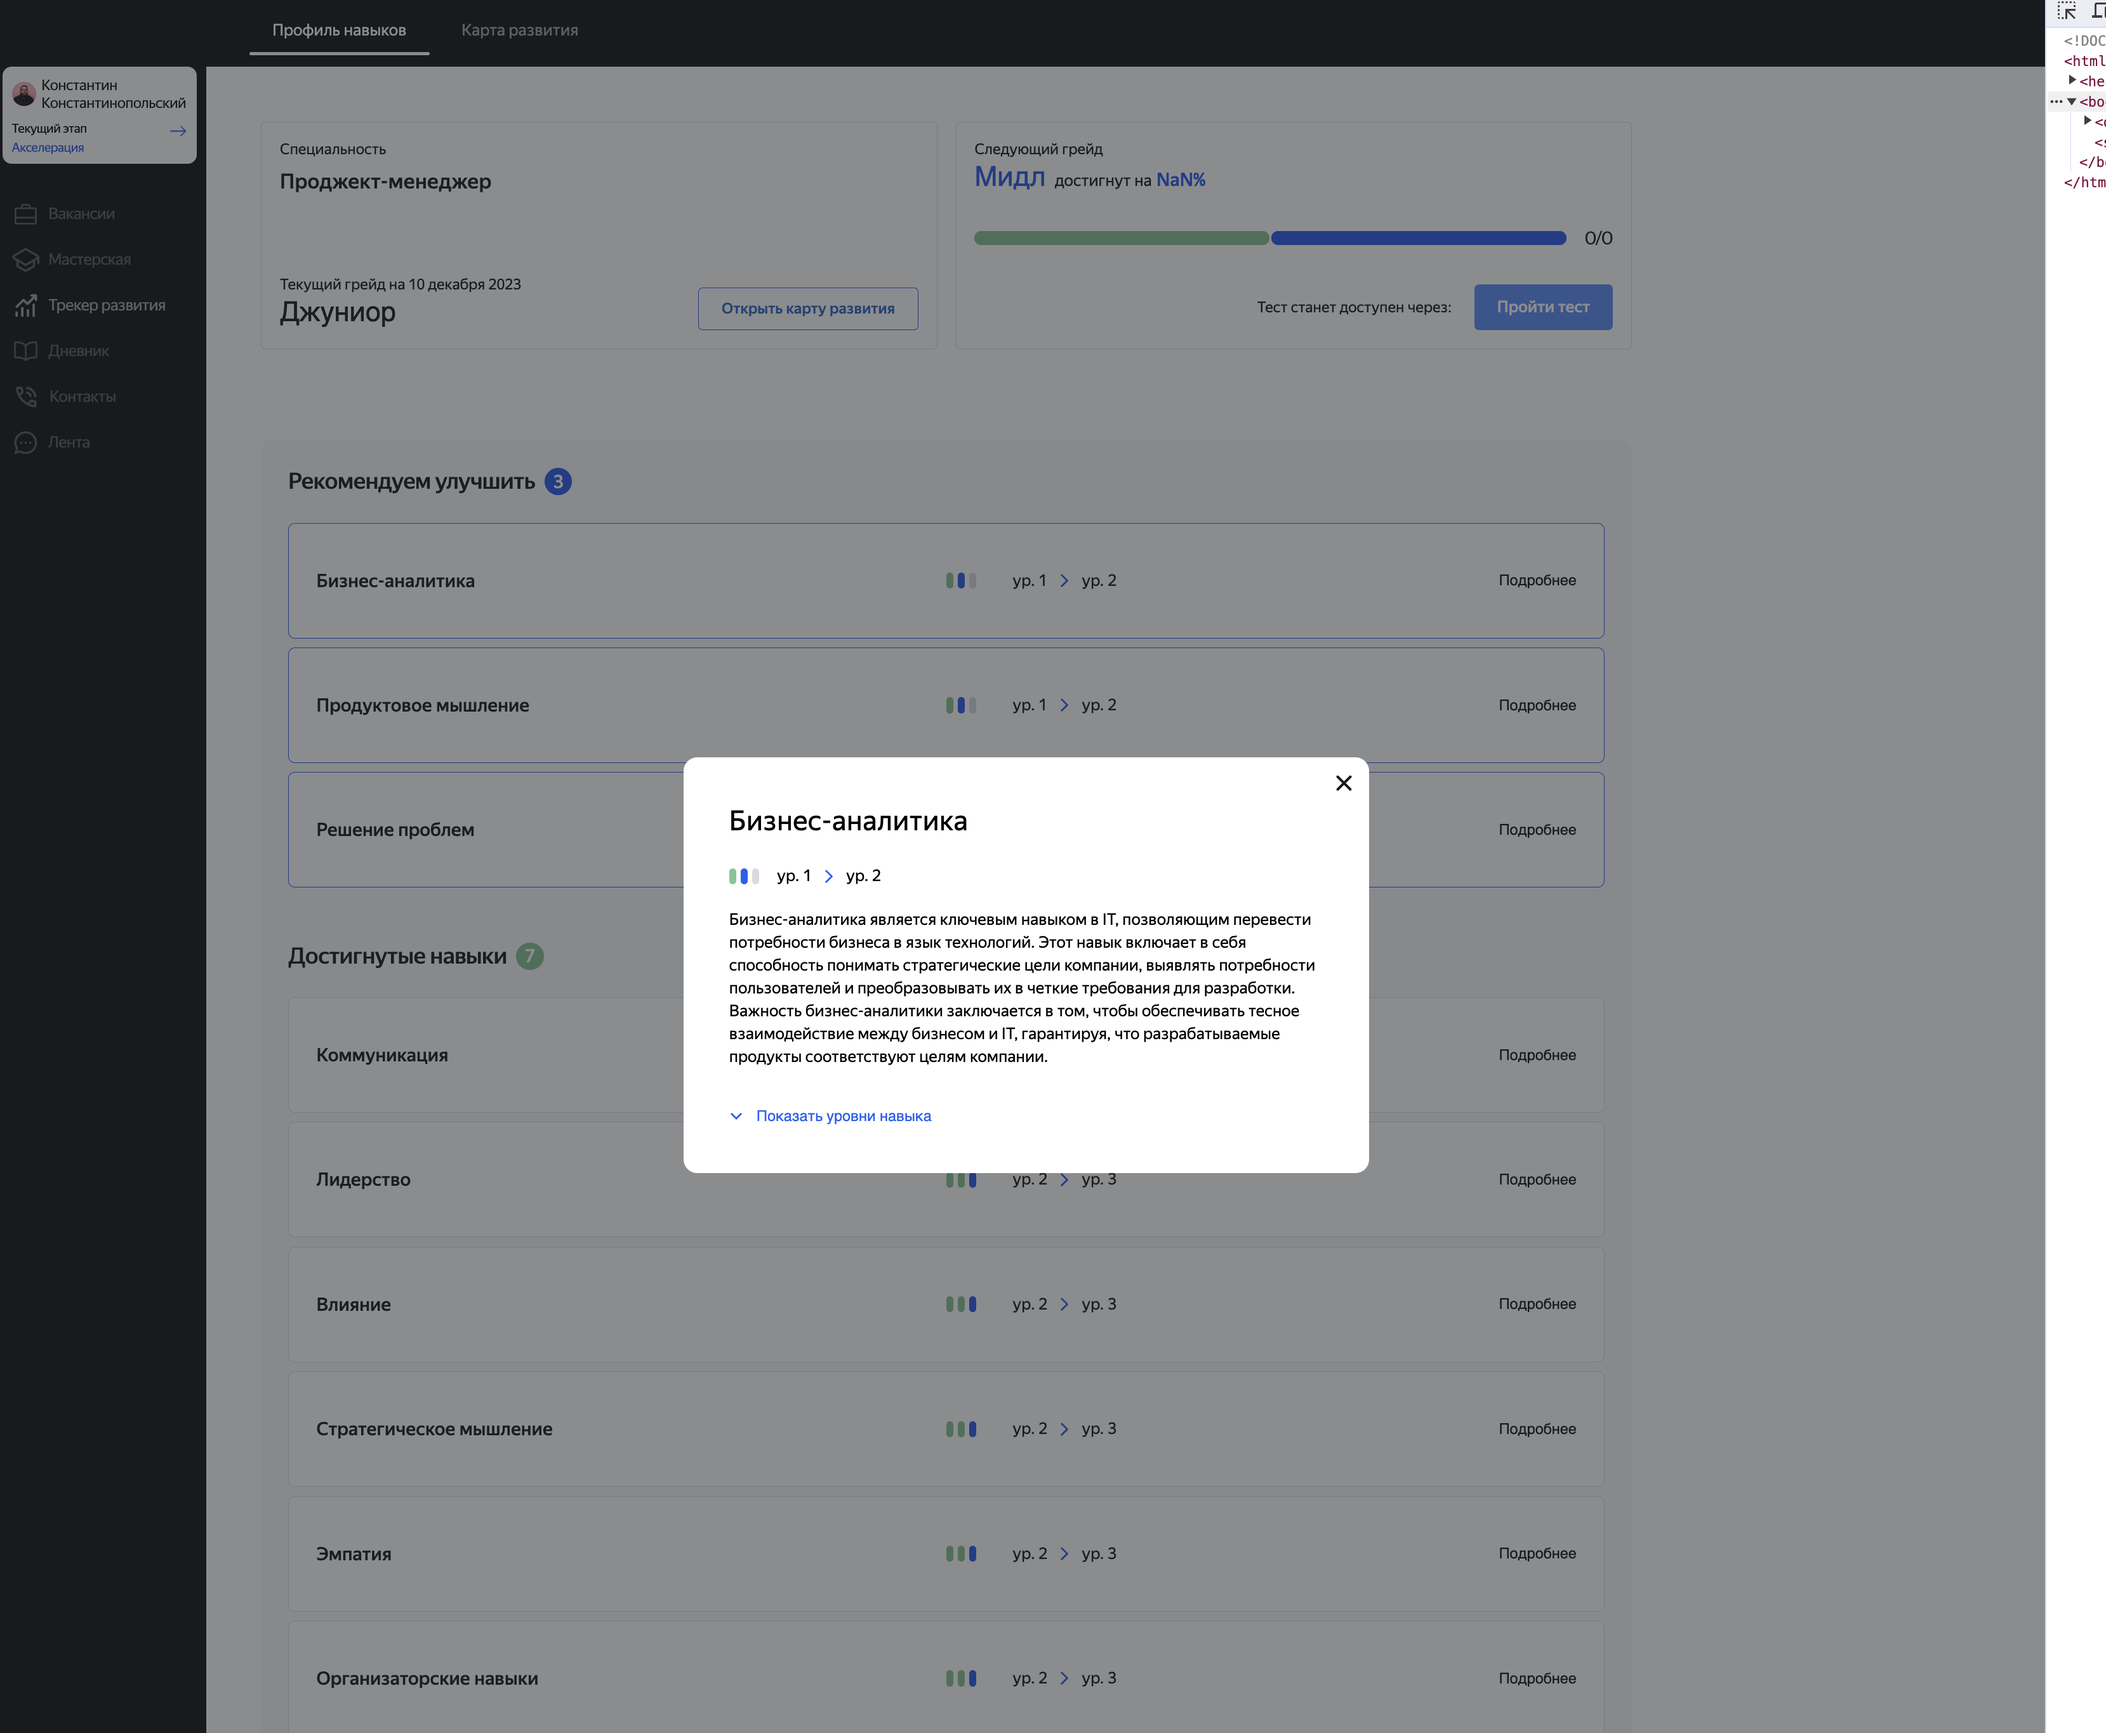
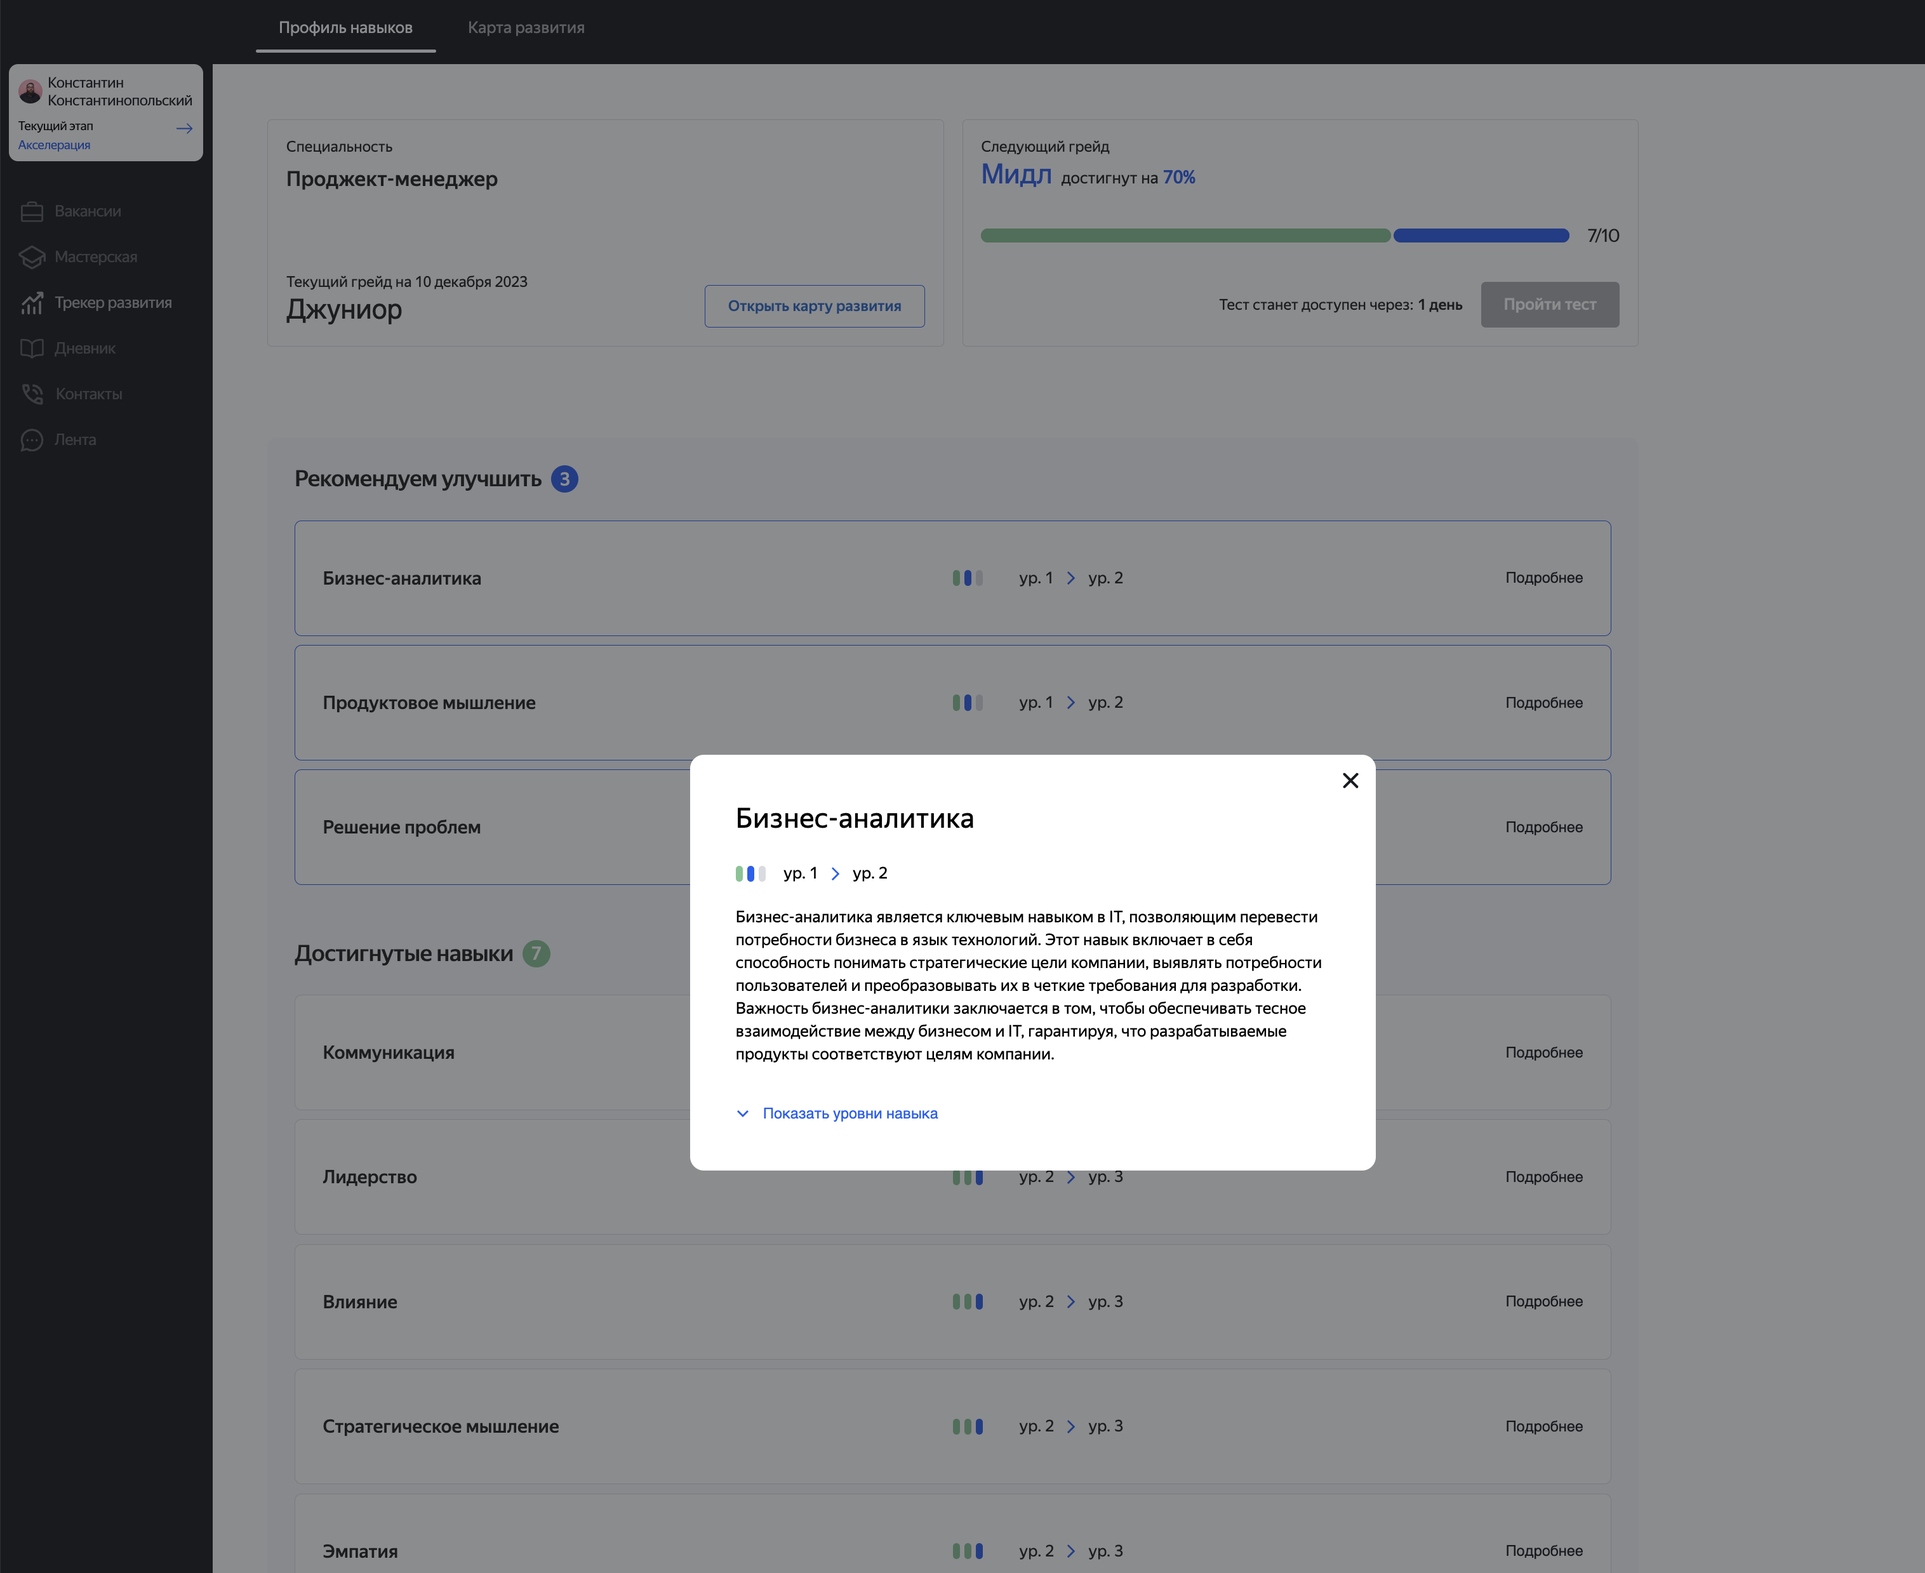
fix: screenshots

diff --git a/src/components/developSkillsList.tsx b/src/components/developSkillsList.tsx
@@ -2,10 +2,10 @@ import { useEffect } from 'react';
 import { Paper, styled } from '@mui/material';
 import vars from '../static/scss/export.module.scss';
 import { SKILLS_TO_IMPROVE, ACHIEVED_SKILLS } from '../utils/constants';
-import skillsData from '../utils/backendTestData/skills.json';
+// import skillsData from '../utils/backendTestData/skills.json';
 import DevelopSkills from './developSkills/developSkills';
 import { useAppDispatch, useAppSelector } from '../services/typeHooks';
-import { getSkillsApi, skillsSelect, ISkill } from '../services/redux/slices/skills/skills';
+import { getSkillsApi, skillsSelect } from '../services/redux/slices/skills/skills';
 
 // skillList elements
 const SkillsListContainer = styled(Paper)({
@@ -30,11 +30,11 @@ const DevelopSkillsList = () => {
 
   const skills = useAppSelector(skillsSelect);
   console.log(skills);
-  // const skillsToImprove = skills.skillsToImprove || [];
-  // const achievedSkills = skills.achievedSkills || [];
+  const skillsToImprove = skills.skillsToImprove || [];
+  const achievedSkills = skills.achievedSkills || [];
   
-  const skillsToImprove: ISkill[] = skillsData[0].skillsToImprove || [];
-  const achievedSkills: ISkill[] = skillsData[1].achievedSkills || [];
+  // const skillsToImprove: ISkill[] = skillsData[0].skillsToImprove || [];
+  // const achievedSkills: ISkill[] = skillsData[1].achievedSkills || [];
 
   return (
     <SkillsListContainer elevation={0}>
